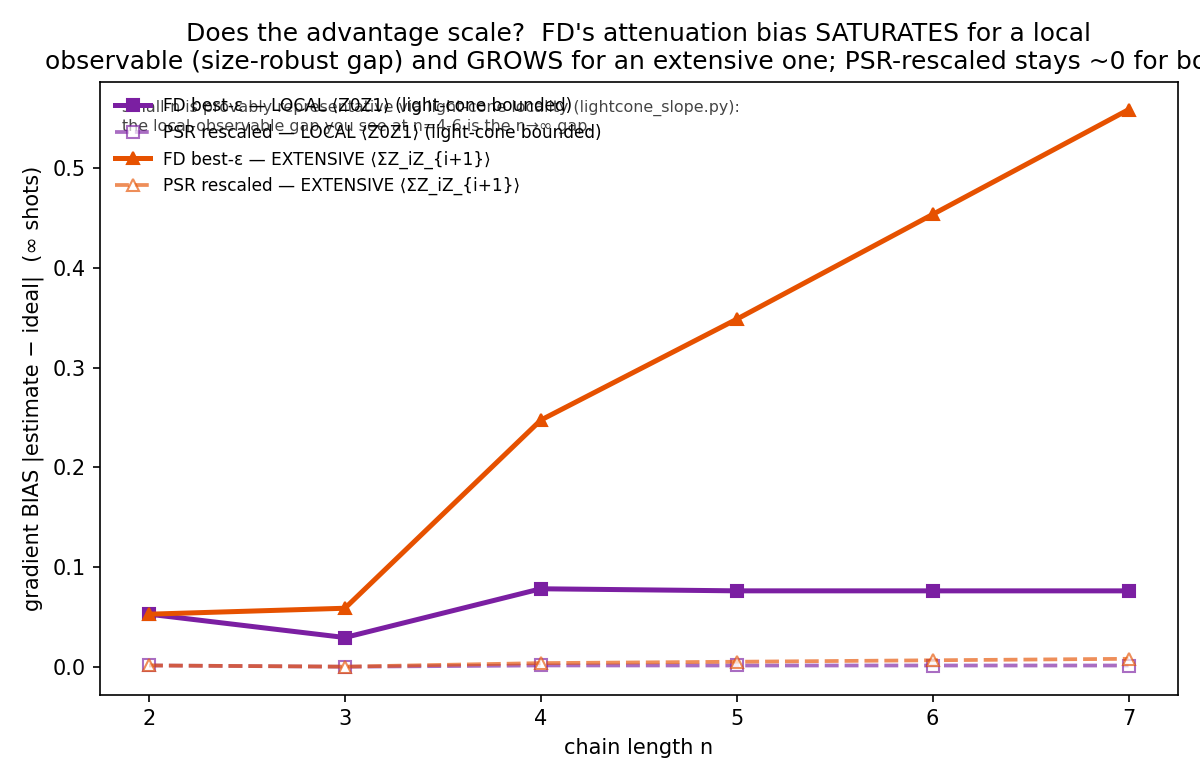
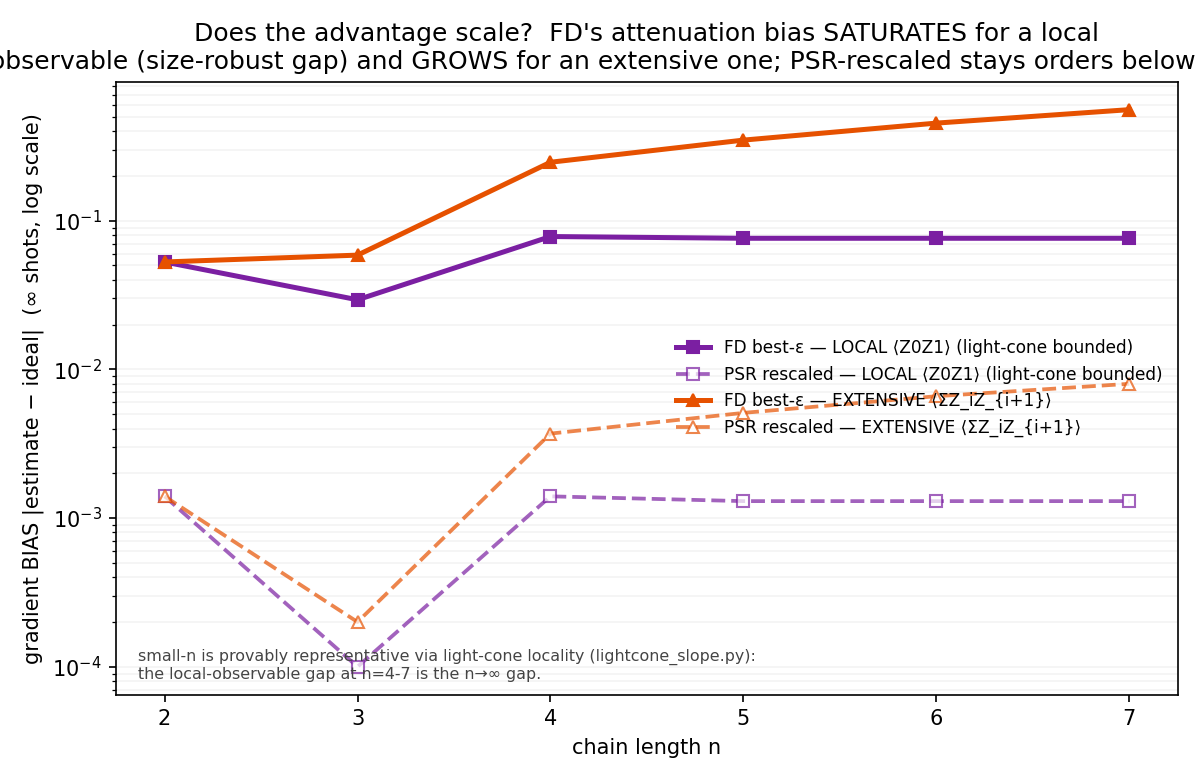
Log-scale C6 scaling plot + data cache (no re-simulation for plot tweaks)
- scaling_advantage.py: log-y axis (advantage spans ~2 orders); compute→
  cache→plot so replotting never re-runs the mesolve sweep. Cache is
  figures/scaling_advantage_data.json; if present the script only replots.
- Log view makes the separation explicit: PSR-rescaled sits ~1.5-2 orders
  below FD-best-eps at every n, for both the saturating local observable
  and the growing extensive one.

diff --git a/differential_computing/tests/scaling_advantage.py b/differential_computing/tests/scaling_advantage.py
@@ -127,37 +127,46 @@ def run(n, obs_fn, label):
 
 
 def main():
-    loc, ext = [], []
-    for n in NS:
-        try:
-            loc.append(run(n, obs_local, "local Z0Z1"))
-            ext.append(run(n, obs_extensive, "ext ΣZZ"))
-        except MemoryError:
-            print(f"  n={n}: MemoryError — stopping (density matrix too large)")
-            break
+    import json
+    figdir = os.path.abspath(os.path.join(os.path.dirname(__file__), "..", "figures"))
+    os.makedirs(figdir, exist_ok=True)
+    cache = os.path.join(figdir, "scaling_advantage_data.json")
+
+    if os.path.exists(cache):                       # replot without re-simulating
+        d = json.load(open(cache)); loc, ext = d["loc"], d["ext"]
+        print(f"loaded cached data ({len(loc)} sizes) — replotting only")
+    else:
+        loc, ext = [], []
+        for n in NS:
+            try:
+                loc.append(run(n, obs_local, "local Z0Z1"))
+                ext.append(run(n, obs_extensive, "ext ΣZZ"))
+            except MemoryError:
+                print(f"  n={n}: MemoryError — stopping (density matrix too large)")
+                break
+        json.dump({"loc": loc, "ext": ext}, open(cache, "w"), default=float)
 
     fig, ax = plt.subplots(figsize=(8, 5.2), dpi=150)
     for res, c, mk, name in [(loc, "#7b1fa2", "s", "LOCAL ⟨Z0Z1⟩ (light-cone bounded)"),
                              (ext, "#e65100", "^", "EXTENSIVE ⟨ΣZ_iZ_{i+1}⟩")]:
         nn = [r["n"] for r in res]
-        ax.plot(nn, [r["fd"] for r in res], mk+"-", color=c, lw=2.4,
-                label=f"FD best-ε — {name}")
-        ax.plot(nn, [r["res"] for r in res], mk+"--", color=c, lw=1.8, alpha=0.65,
-                mfc="white", label=f"PSR rescaled — {name}")
+        ax.semilogy(nn, [r["fd"] for r in res], mk+"-", color=c, lw=2.4,
+                    label=f"FD best-ε — {name}")
+        ax.semilogy(nn, [r["res"] for r in res], mk+"--", color=c, lw=1.8, alpha=0.7,
+                    mfc="white", label=f"PSR rescaled — {name}")
     ax.set_xlabel("chain length n")
-    ax.set_ylabel("gradient BIAS |estimate − ideal|  (∞ shots)")
+    ax.set_ylabel("gradient BIAS |estimate − ideal|  (∞ shots, log scale)")
     ax.set_title("Does the advantage scale?  FD's attenuation bias SATURATES for a "
                  "local\nobservable (size-robust gap) and GROWS for an extensive one; "
-                 "PSR-rescaled stays ~0 for both")
-    ax.set_xticks(NS)
-    ax.legend(frameon=False, fontsize=8.2, loc="upper left")
-    ax.text(0.98, 0.55, "small-n is provably representative via\nlight-cone locality "
-            "(lightcone_slope.py): the\nlocal-observable gap at n=4-7 is the n→∞ gap.",
-            transform=ax.transAxes, fontsize=7.6, color="#444", va="top", ha="right")
+                 "PSR-rescaled stays orders below for both")
+    ax.set_xticks([r["n"] for r in ext])
+    ax.grid(True, which="both", axis="y", alpha=0.15)
+    ax.legend(frameon=False, fontsize=8.2, loc="center right")
+    ax.text(0.02, 0.02, "small-n is provably representative via light-cone locality "
+            "(lightcone_slope.py):\nthe local-observable gap at n=4-7 is the n→∞ gap.",
+            transform=ax.transAxes, fontsize=7.6, color="#444", va="bottom")
     fig.tight_layout()
-    out = os.path.abspath(os.path.join(os.path.dirname(__file__), "..",
-                                       "figures", "scaling_advantage.png"))
-    os.makedirs(os.path.dirname(out), exist_ok=True)
+    out = os.path.join(figdir, "scaling_advantage.png")
     fig.savefig(out)
     print(f"\nsaved: {out}")
 
